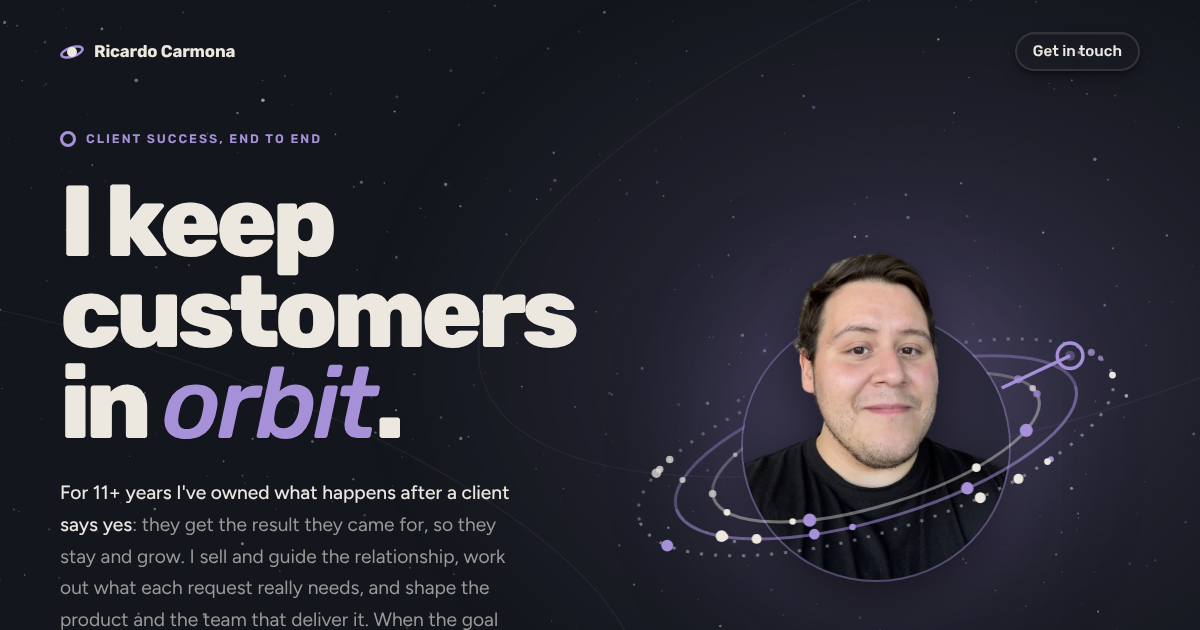
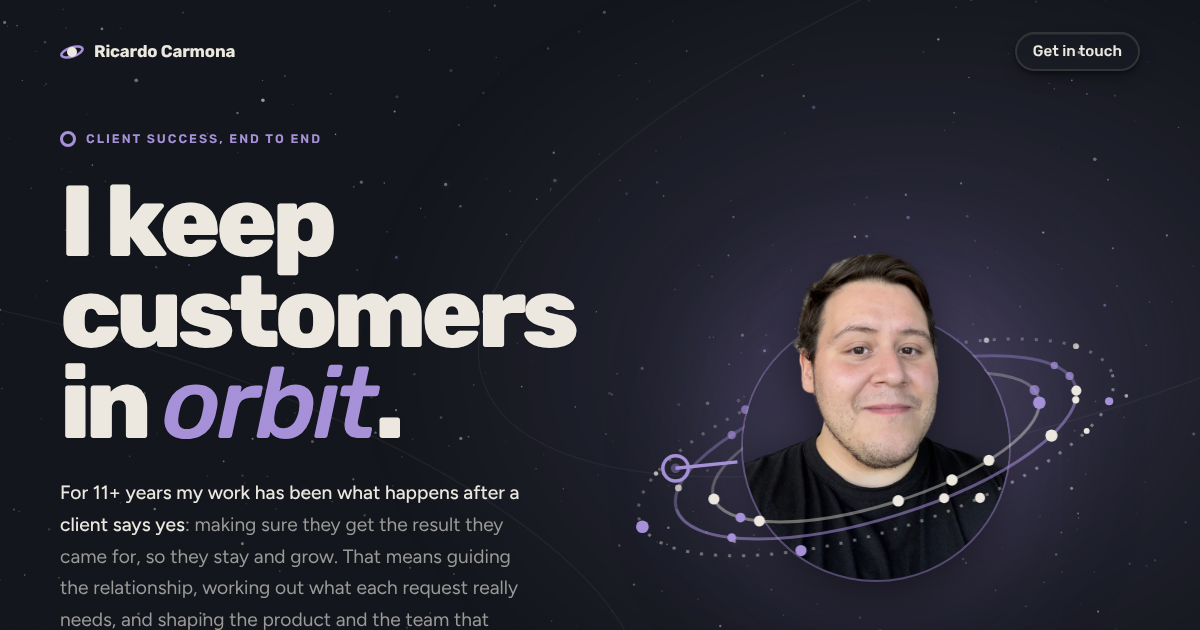
Copy pass: more team voice, matching page description
Claude-Session: https://claude.ai/code/session_01Ppve7aA2MxnoLmhJDb7k4W

diff --git a/index.html b/index.html
@@ -4,7 +4,7 @@
 <meta charset="utf-8">
 <meta name="viewport" content="width=device-width, initial-scale=1, viewport-fit=cover">
 <title>Ricardo Carmona · Client success, end to end</title>
-<meta name="description" content="I own what happens after a client says yes. 11+ years selling, retaining and guiding clients, and shaping the product and team that deliver for them.">
+<meta name="description" content="For 11+ years my work has been what happens after a client says yes: making sure they get the result they came for, so they stay and grow.">
 <meta name="theme-color" content="#12151B">
 <link rel="canonical" href="https://ricardocarmona.io/">
 <link rel="icon" href="/favicon.svg" type="image/svg+xml">
@@ -13,13 +13,13 @@
 <meta property="og:type" content="website">
 <meta property="og:url" content="https://ricardocarmona.io/">
 <meta property="og:title" content="Ricardo Carmona · Client success, end to end">
-<meta property="og:description" content="I own what happens after a client says yes. 11+ years selling, retaining and guiding clients, and shaping the product and team that deliver for them.">
+<meta property="og:description" content="For 11+ years my work has been what happens after a client says yes: making sure they get the result they came for, so they stay and grow.">
 <meta property="og:image" content="https://ricardocarmona.io/og.png">
 <meta property="og:image:width" content="1200">
 <meta property="og:image:height" content="630">
 <meta name="twitter:card" content="summary_large_image">
 <meta name="twitter:title" content="Ricardo Carmona · Client success, end to end">
-<meta name="twitter:description" content="I own what happens after a client says yes. 11+ years selling, retaining and guiding clients, and shaping the product and team that deliver for them.">
+<meta name="twitter:description" content="For 11+ years my work has been what happens after a client says yes: making sure they get the result they came for, so they stay and grow.">
 <meta name="twitter:image" content="https://ricardocarmona.io/og.png">
 <link rel="preconnect" href="https://fonts.googleapis.com">
 <link rel="preconnect" href="https://fonts.gstatic.com" crossorigin>
@@ -291,7 +291,7 @@ footer{font:400 .8rem/1.5 var(--body);color:var(--bone-2);padding-bottom:32px}
     <div>
       <span class="eyebrow">Client success, end to end</span>
       <h1>I keep customers in <em>orbit</em>.</h1>
-      <p class="lede"><strong>For 11+ years I've owned what happens after a client says yes</strong>: they get the result they came for, so they stay and grow. I sell and guide the relationship, work out what each request really needs, and shape the product and the team that deliver it. When the goal calls for systems or AI, I build those too.</p>
+      <p class="lede"><strong>For 11+ years my work has been what happens after a client says yes</strong>: making sure they get the result they came for, so they stay and grow. That means guiding the relationship, working out what each request really needs, and shaping the product and the team that deliver it, with systems or AI when the goal calls for it.</p>
       <div class="who"><span>Client Success Manager at Kodara</span><span>Guadalajara, Mexico</span><span>English / Español</span></div>
     </div>
     <figure class="system" id="system">
@@ -299,7 +299,7 @@ footer{font:400 .8rem/1.5 var(--body);color:var(--bone-2);padding-bottom:32px}
       <div class="disc"></div>
       <div class="photo"><img src="assets/ricardo.webp" alt="Ricardo Carmona" width="720" height="794"></div>
       <canvas class="front" aria-hidden="true"></canvas>
-      <figcaption>Each dot is a client. When one starts to <b>drift</b> from its goal, I pull it back.</figcaption>
+      <figcaption>Each dot is a client. When one starts to <b>drift</b> from its goal, we pull it back.</figcaption>
     </figure>
   </header>
 
@@ -322,9 +322,9 @@ footer{font:400 .8rem/1.5 var(--body);color:var(--bone-2);padding-bottom:32px}
   <text x="160.6" y="160" text-anchor="middle" class="coret">GOAL</text>
 </svg></div>
       <div class="traits">
-        <div class="trait rv"><span class="tdot t1"></span><div><h3>The client</h3><p>I sell, I retain and I guide. 11+ years of renewals, upsells, hard conversations and onboarding, from 24/7 support floors to global accounts worth $1.5M+ a month.</p></div></div>
-        <div class="trait rv"><span class="tdot t2"></span><div><h3>The product</h3><p>Clients say what they want. I work out what they need. My computer engineering degree means I understand how products and features get built, so I can turn a request into a clear spec, tell what's realistic and agree with engineers on what ships first. At Kodara, most of what we've built or changed since June started as my idea.</p></div></div>
-        <div class="trait rv"><span class="tdot t3"></span><div><h3>The team</h3><p>Then I shape the people around it: who owns what, how work moves, which playbooks they run. I've led a 150-person operation, and today I run the team that delivers for Kodara's clients.</p></div></div>
+        <div class="trait rv"><span class="tdot t1"></span><div><h3>The client</h3><p>Selling, renewing, onboarding and the hard conversations. 11+ years of it, from 24/7 support floors to global accounts worth $1.5M+ a month.</p></div></div>
+        <div class="trait rv"><span class="tdot t2"></span><div><h3>The product</h3><p>Clients say what they want. The real job is working out what they need. A computer engineering degree helps: turning a request into a clear spec, knowing what's realistic, and agreeing with engineers on what ships first. At Kodara, most of what we've built or changed since June started as my idea.</p></div></div>
+        <div class="trait rv"><span class="tdot t3"></span><div><h3>The team</h3><p>Then the people around it: who owns what, how work moves, which playbooks they run. That's meant leading a 150-person operation, and now the team that delivers for Kodara's clients.</p></div></div>
       </div>
     </div>
   </section>
@@ -335,8 +335,8 @@ footer{font:400 .8rem/1.5 var(--body);color:var(--bone-2);padding-bottom:32px}
       <h2>What it added up to</h2>
     </div>
     <div class="nums">
-      <div class="num rv"><b><span>$</span><i data-to="1.5" data-dec="1">1.5</i>M+</b><p><strong>Monthly revenue</strong> from the customer accounts my division was responsible for.</p></div>
-      <div class="num rv"><b>&lt;<i data-to="5" data-dec="0">5</i><span>%</span></b><p><strong>Customers lost per quarter</strong> (churn), kept low with an early-warning health score I helped build.</p></div>
+      <div class="num rv"><b><span>$</span><i data-to="1.5" data-dec="1">1.5</i>M+</b><p><strong>Monthly revenue</strong> from the customer accounts our division looked after.</p></div>
+      <div class="num rv"><b>&lt;<i data-to="5" data-dec="0">5</i><span>%</span></b><p><strong>Customers lost per quarter</strong> (churn), kept low with an early-warning health score we built.</p></div>
       <div class="num rv"><b>3.0<span>→</span>4.5</b>
         <svg class="scale" viewBox="0 0 220 24" role="img" aria-label="Average review score rose from 3.0 to 4.5 out of 5">
           <line x1="10" y1="12" x2="210" y2="12" stroke="var(--line)" stroke-width="3"/>
@@ -355,10 +355,10 @@ footer{font:400 .8rem/1.5 var(--body);color:var(--bone-2);padding-bottom:32px}
   <section class="band">
     <div class="bandhead"><div class="head rv">
       <span class="eyebrow">What I changed</span>
-      <h2>I usually inherit a problem and leave a system.</h2>
+      <h2>We usually start with a problem and leave a system.</h2>
     </div><svg class="rings" viewBox="0 0 400 400" aria-hidden="true"><g fill="none" stroke="var(--ground)" stroke-width="4"><circle cx="200" cy="200" r="195"/><circle cx="200" cy="200" r="150"/><circle cx="200" cy="200" r="105" stroke-dasharray="3 9"/><circle cx="200" cy="200" r="60"/></g><circle cx="200" cy="5" r="9" fill="var(--ground)"/><circle cx="95" cy="200" r="6" fill="var(--ground)"/></svg></div>
     <div class="changes">
-      <div class="change"><small>Kodara</small><p class="from">The whole build-and-launch process lived with the founder.</p><svg viewBox="0 0 44 20" aria-hidden="true"><line x1="2" y1="10" x2="36" y2="10" stroke="var(--ground)" stroke-width="3.5"/><path d="M30 3 L41 10 L30 17" fill="none" stroke="var(--ground)" stroke-width="3.5"/></svg><p class="to">A team I lead now owns delivery, from build through launch and support.</p></div>
+      <div class="change"><small>Kodara</small><p class="from">The whole build-and-launch process lived with the founder.</p><svg viewBox="0 0 44 20" aria-hidden="true"><line x1="2" y1="10" x2="36" y2="10" stroke="var(--ground)" stroke-width="3.5"/><path d="M30 3 L41 10 L30 17" fill="none" stroke="var(--ground)" stroke-width="3.5"/></svg><p class="to">Our team now owns delivery, from build through launch and support.</p></div>
       <div class="change"><small>Kodara</small><p class="from">Onboarding was manual, slow and depended on one person remembering everything.</p><svg viewBox="0 0 44 20" aria-hidden="true"><line x1="2" y1="10" x2="36" y2="10" stroke="var(--ground)" stroke-width="3.5"/><path d="M30 3 L41 10 L30 17" fill="none" stroke="var(--ground)" stroke-width="3.5"/></svg><p class="to">A repeatable, partly automated onboarding process the whole team can run.</p></div>
       <div class="change"><small>Helpware</small><p class="from">Customer success mostly meant reacting to tickets and putting out fires.</p><svg viewBox="0 0 44 20" aria-hidden="true"><line x1="2" y1="10" x2="36" y2="10" stroke="var(--ground)" stroke-width="3.5"/><path d="M30 3 L41 10 L30 17" fill="none" stroke="var(--ground)" stroke-width="3.5"/></svg><p class="to">A practice built around account health: we saw risk coming, stepped in early, and turned healthy accounts into $100K–$300K of growth each quarter.</p></div>
       <div class="change"><small>Helpware</small><p class="from">No shared playbook for how customer success should work.</p><svg viewBox="0 0 44 20" aria-hidden="true"><line x1="2" y1="10" x2="36" y2="10" stroke="var(--ground)" stroke-width="3.5"/><path d="M30 3 L41 10 L30 17" fill="none" stroke="var(--ground)" stroke-width="3.5"/></svg><p class="to">The company's first customer success framework, co-built with the VP, with health scores and retention playbooks.</p></div>
@@ -452,10 +452,10 @@ footer{font:400 .8rem/1.5 var(--body);color:var(--bone-2);padding-bottom:32px}
   <section class="tools neb">
     <div class="head rv">
       <span class="eyebrow">Systems and AI</span>
-      <h2>When the goal needs a system, I build it.</h2>
-      <p class="sub">Tools are a means, not the point. Here's what I've built and what I reach for.</p>
+      <h2>When the goal needs a system, we build one.</h2>
+      <p class="sub">Tools are a means, not the point. Here's what we've built and what we use.</p>
     </div>
-    <div class="tfeat rv"><div><span class="eyebrow">Built in-house</span><h3>Our team needed faster ways to deliver, so I built them.</h3><p>At Kodara I designed and shipped internal AI toolkits that people across the company use every day.</p></div><ul><li>Video editing studio</li><li>Marketing ops toolkit</li><li>Image studio</li><li>and more</li></ul></div><h3 class="tlabel">What I reach for</h3><div class="tgrid"><div class="tg rv"><h3>AI</h3><ul><li>Claude Code</li><li>ChatGPT</li><li>Gemini</li><li>Cursor</li><li>ElevenLabs</li><li>HeyGen</li><li>Descript</li><li>Prompt and agent design</li><li>AI agent testing (evals)</li></ul></div><div class="tg rv"><h3>Automation</h3><ul><li>n8n</li><li>Zapier</li><li>Make</li><li>Slack automations</li><li>Workflows</li><li>Onboarding automation</li><li>Transcript-to-draft flows</li><li>Lead routing</li></ul></div><div class="tg rv"><h3>Customer success and CRM</h3><ul><li>CRM setup</li><li>GoHighLevel</li><li>HubSpot</li><li>Salesforce</li><li>Gainsight</li><li>Zendesk</li><li>Intercom</li><li>Freshdesk</li><li>Pylon</li><li>Jira</li><li>Health scoring</li><li>Retention playbooks</li><li>SOPs</li><li>Escalation paths</li></ul></div><div class="tg rv"><h3>Growth and marketing</h3><ul><li>Funnel building</li><li>Sales funnels</li><li>Quiz and lead funnels</li><li>Email nurture</li><li>Offer design</li><li>Meta Ads</li><li>Marketing plans</li><li>Typeform</li><li>Canva</li><li>Stripe</li><li>Whop</li></ul></div><div class="tg rv"><h3>Ops and data</h3><ul><li>Notion</li><li>ClickUp</li><li>Google Workspace</li><li>Calendly</li><li>Loom</li><li>Fathom</li><li>Supabase</li><li>PostHog</li></ul></div></div>
+    <div class="tfeat rv"><div><span class="eyebrow">Built in-house</span><h3>Our team needed faster ways to deliver, so I built them.</h3><p>At Kodara I designed and shipped internal AI toolkits that people across the company use every day.</p></div><ul><li>Video editing studio</li><li>Marketing ops toolkit</li><li>Image studio</li><li>and more</li></ul></div><h3 class="tlabel">What we use</h3><div class="tgrid"><div class="tg rv"><h3>AI</h3><ul><li>Claude Code</li><li>ChatGPT</li><li>Gemini</li><li>Cursor</li><li>ElevenLabs</li><li>HeyGen</li><li>Descript</li><li>Prompt and agent design</li><li>AI agent testing (evals)</li></ul></div><div class="tg rv"><h3>Automation</h3><ul><li>n8n</li><li>Zapier</li><li>Make</li><li>Slack automations</li><li>Workflows</li><li>Onboarding automation</li><li>Transcript-to-draft flows</li><li>Lead routing</li></ul></div><div class="tg rv"><h3>Customer success and CRM</h3><ul><li>CRM setup</li><li>GoHighLevel</li><li>HubSpot</li><li>Salesforce</li><li>Gainsight</li><li>Zendesk</li><li>Intercom</li><li>Freshdesk</li><li>Pylon</li><li>Jira</li><li>Health scoring</li><li>Retention playbooks</li><li>SOPs</li><li>Escalation paths</li></ul></div><div class="tg rv"><h3>Growth and marketing</h3><ul><li>Funnel building</li><li>Sales funnels</li><li>Quiz and lead funnels</li><li>Email nurture</li><li>Offer design</li><li>Meta Ads</li><li>Marketing plans</li><li>Typeform</li><li>Canva</li><li>Stripe</li><li>Whop</li></ul></div><div class="tg rv"><h3>Ops and data</h3><ul><li>Notion</li><li>ClickUp</li><li>Google Workspace</li><li>Calendly</li><li>Loom</li><li>Fathom</li><li>Supabase</li><li>PostHog</li></ul></div></div>
     <p class="edu">B.Sc. in Computer Engineering, UNIVES, 2020.</p>
   </section>
 </main>
